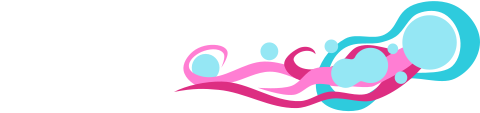
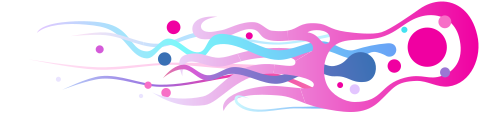
new header img

diff --git a/_sass/moonwalk.scss b/_sass/moonwalk.scss
@@ -201,6 +201,8 @@ html.transition *:after {
     width: 100%;
     min-height: 113px;
     background-image: url("#{$baseurl}/assets/images/header.png");
+    background-image: url("#{$baseurl}/assets/images/header.svg"),
+        linear-gradient(transparent, transparent);
     background-position: right bottom;
     background-repeat: no-repeat;
 }
